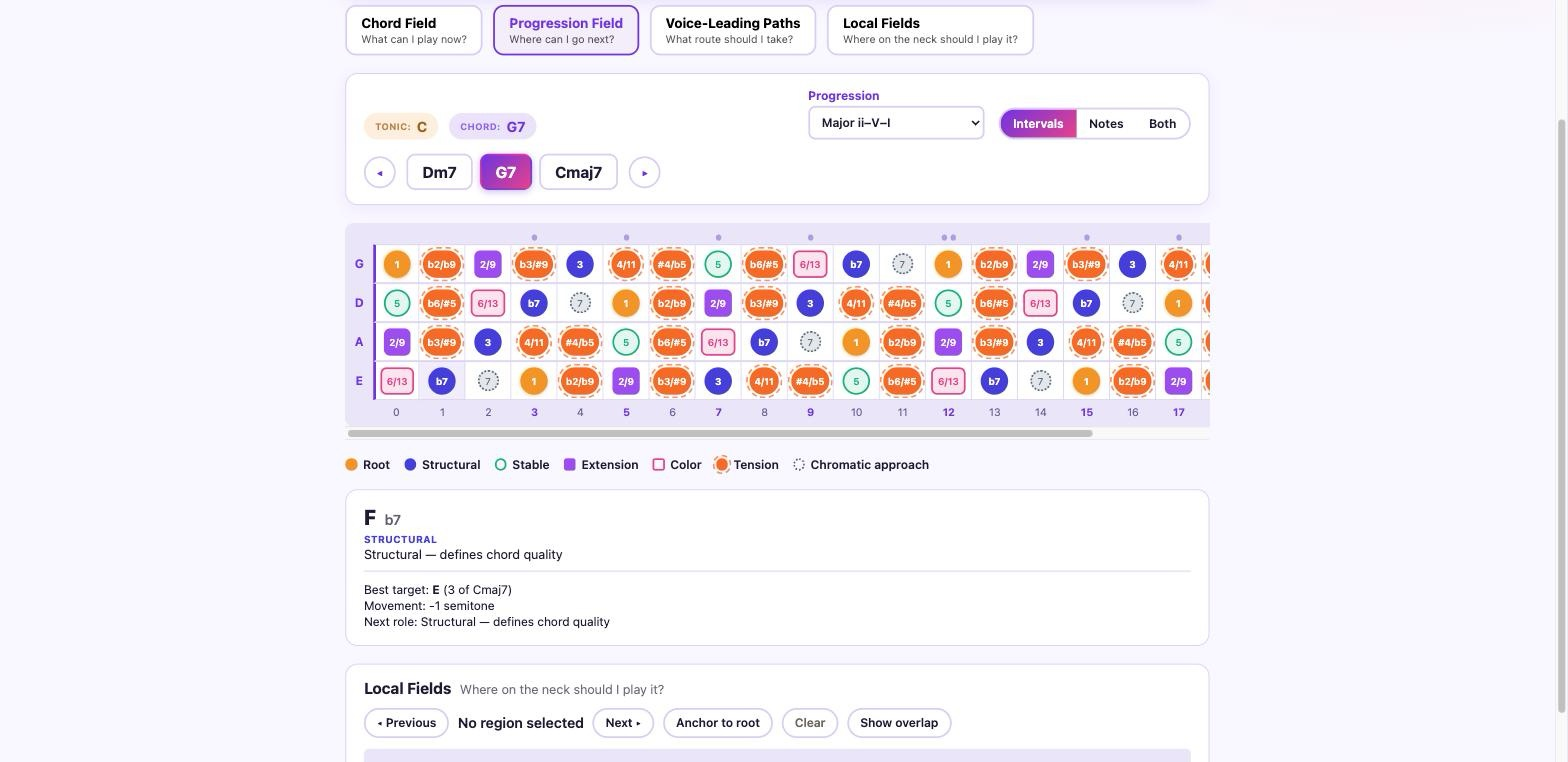
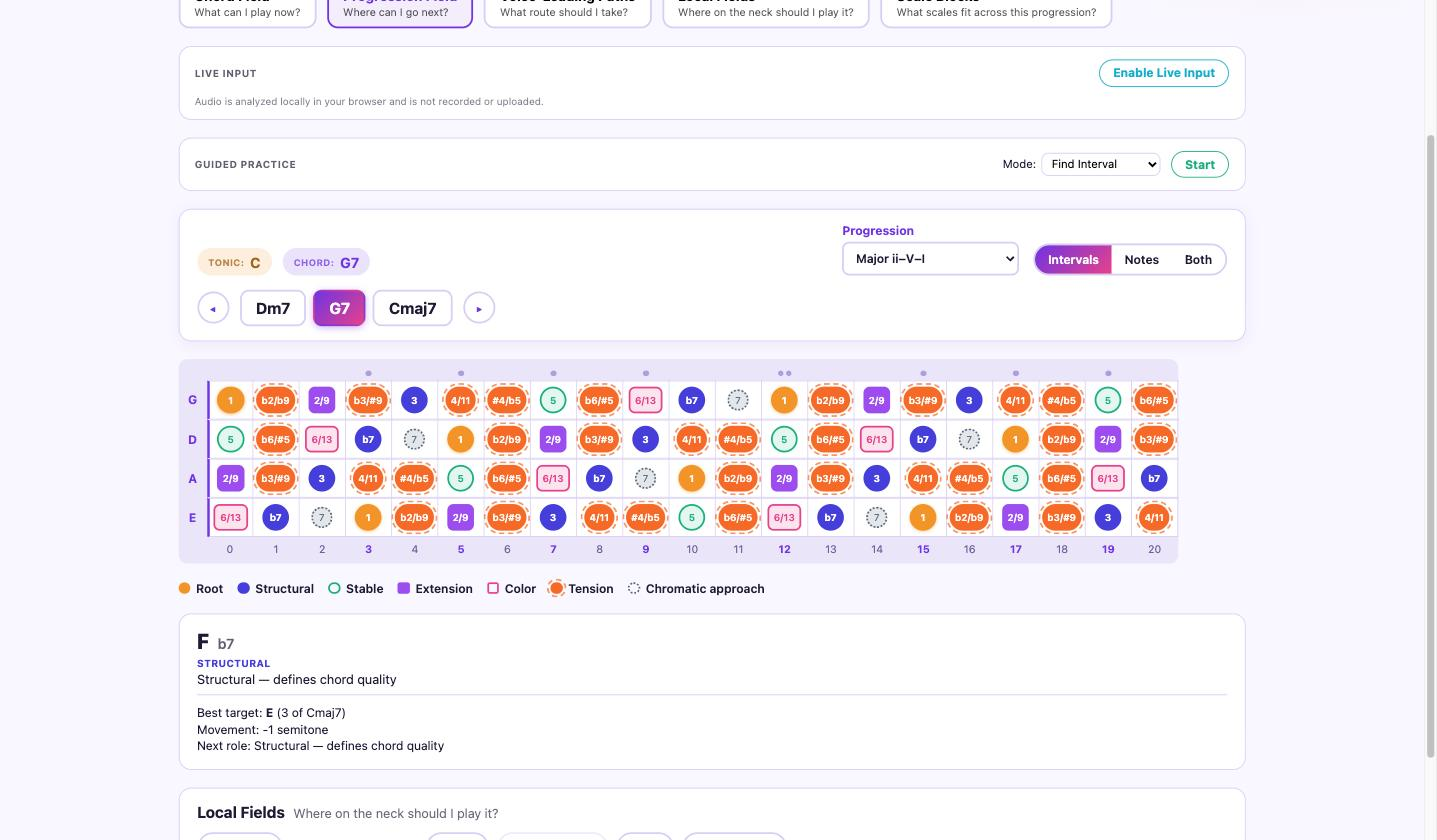
docs: refresh README screenshots and add Scale Blocks/Live Input/Guided Practice
The four existing screenshots predated Live Input, Guided Practice, and
Scale Blocks — they showed a stale 4-tab header with no Live Input panel.
Refreshed all four against the current UI and added three new screenshots
covering the features that had none: Scale Blocks (a Dm7-G7-Cmaj7
progression with three overlaid scale blocks), Live Input (a detected note
with the new bright confirmed-position highlight and its resolution
target), and Guided Practice (a Find Interval exercise with correct
feedback). Also fixed a stale "all four modes" reference in the Checks
section.

diff --git a/README.md b/README.md
@@ -63,6 +63,32 @@ FretField is an interactive bass-fretboard application that teaches the neck as 
 
 </td>
 </tr>
+<tr>
+<td width="50%">
+
+**Scale Blocks** — up to 4 chords' scales overlaid at once
+
+<img src="./docs/screenshots/scale-blocks.jpg" alt="Scale Blocks showing three configured chord blocks for a Dm7-G7-Cmaj7 progression, with every fret numbered and colored by which block's scale it belongs to">
+
+</td>
+<td width="50%">
+
+**Live Input** — the actual note you played, lit up on the neck
+
+<img src="./docs/screenshots/live-input.jpg" alt="Live Input tracking a detected F note over G7 in Progression Field, with the confirmed fret filled in a bright accent color and its best resolution into E highlighted">
+
+</td>
+</tr>
+<tr>
+<td width="50%">
+
+**Guided Practice** — an exercise loop with live feedback
+
+<img src="./docs/screenshots/guided-practice.jpg" alt="Guided Practice showing a Find Interval exercise for 2/9 relative to C, with the played note confirmed correct and a green result ring on the fretboard">
+
+</td>
+<td width="50%"></td>
+</tr>
 </table>
 
 ---
@@ -126,7 +152,7 @@ pnpm dev -- --open
 pnpm lint       # prettier + eslint
 pnpm check      # svelte-check / TypeScript
 pnpm test:unit  # vitest — the music engine's invariants live here
-pnpm test:e2e   # playwright — full user flows across all four modes and Guided Practice
+pnpm test:e2e   # playwright — full user flows across all five modes, Live Input, and Guided Practice
 pnpm build      # production build
 ```
 
